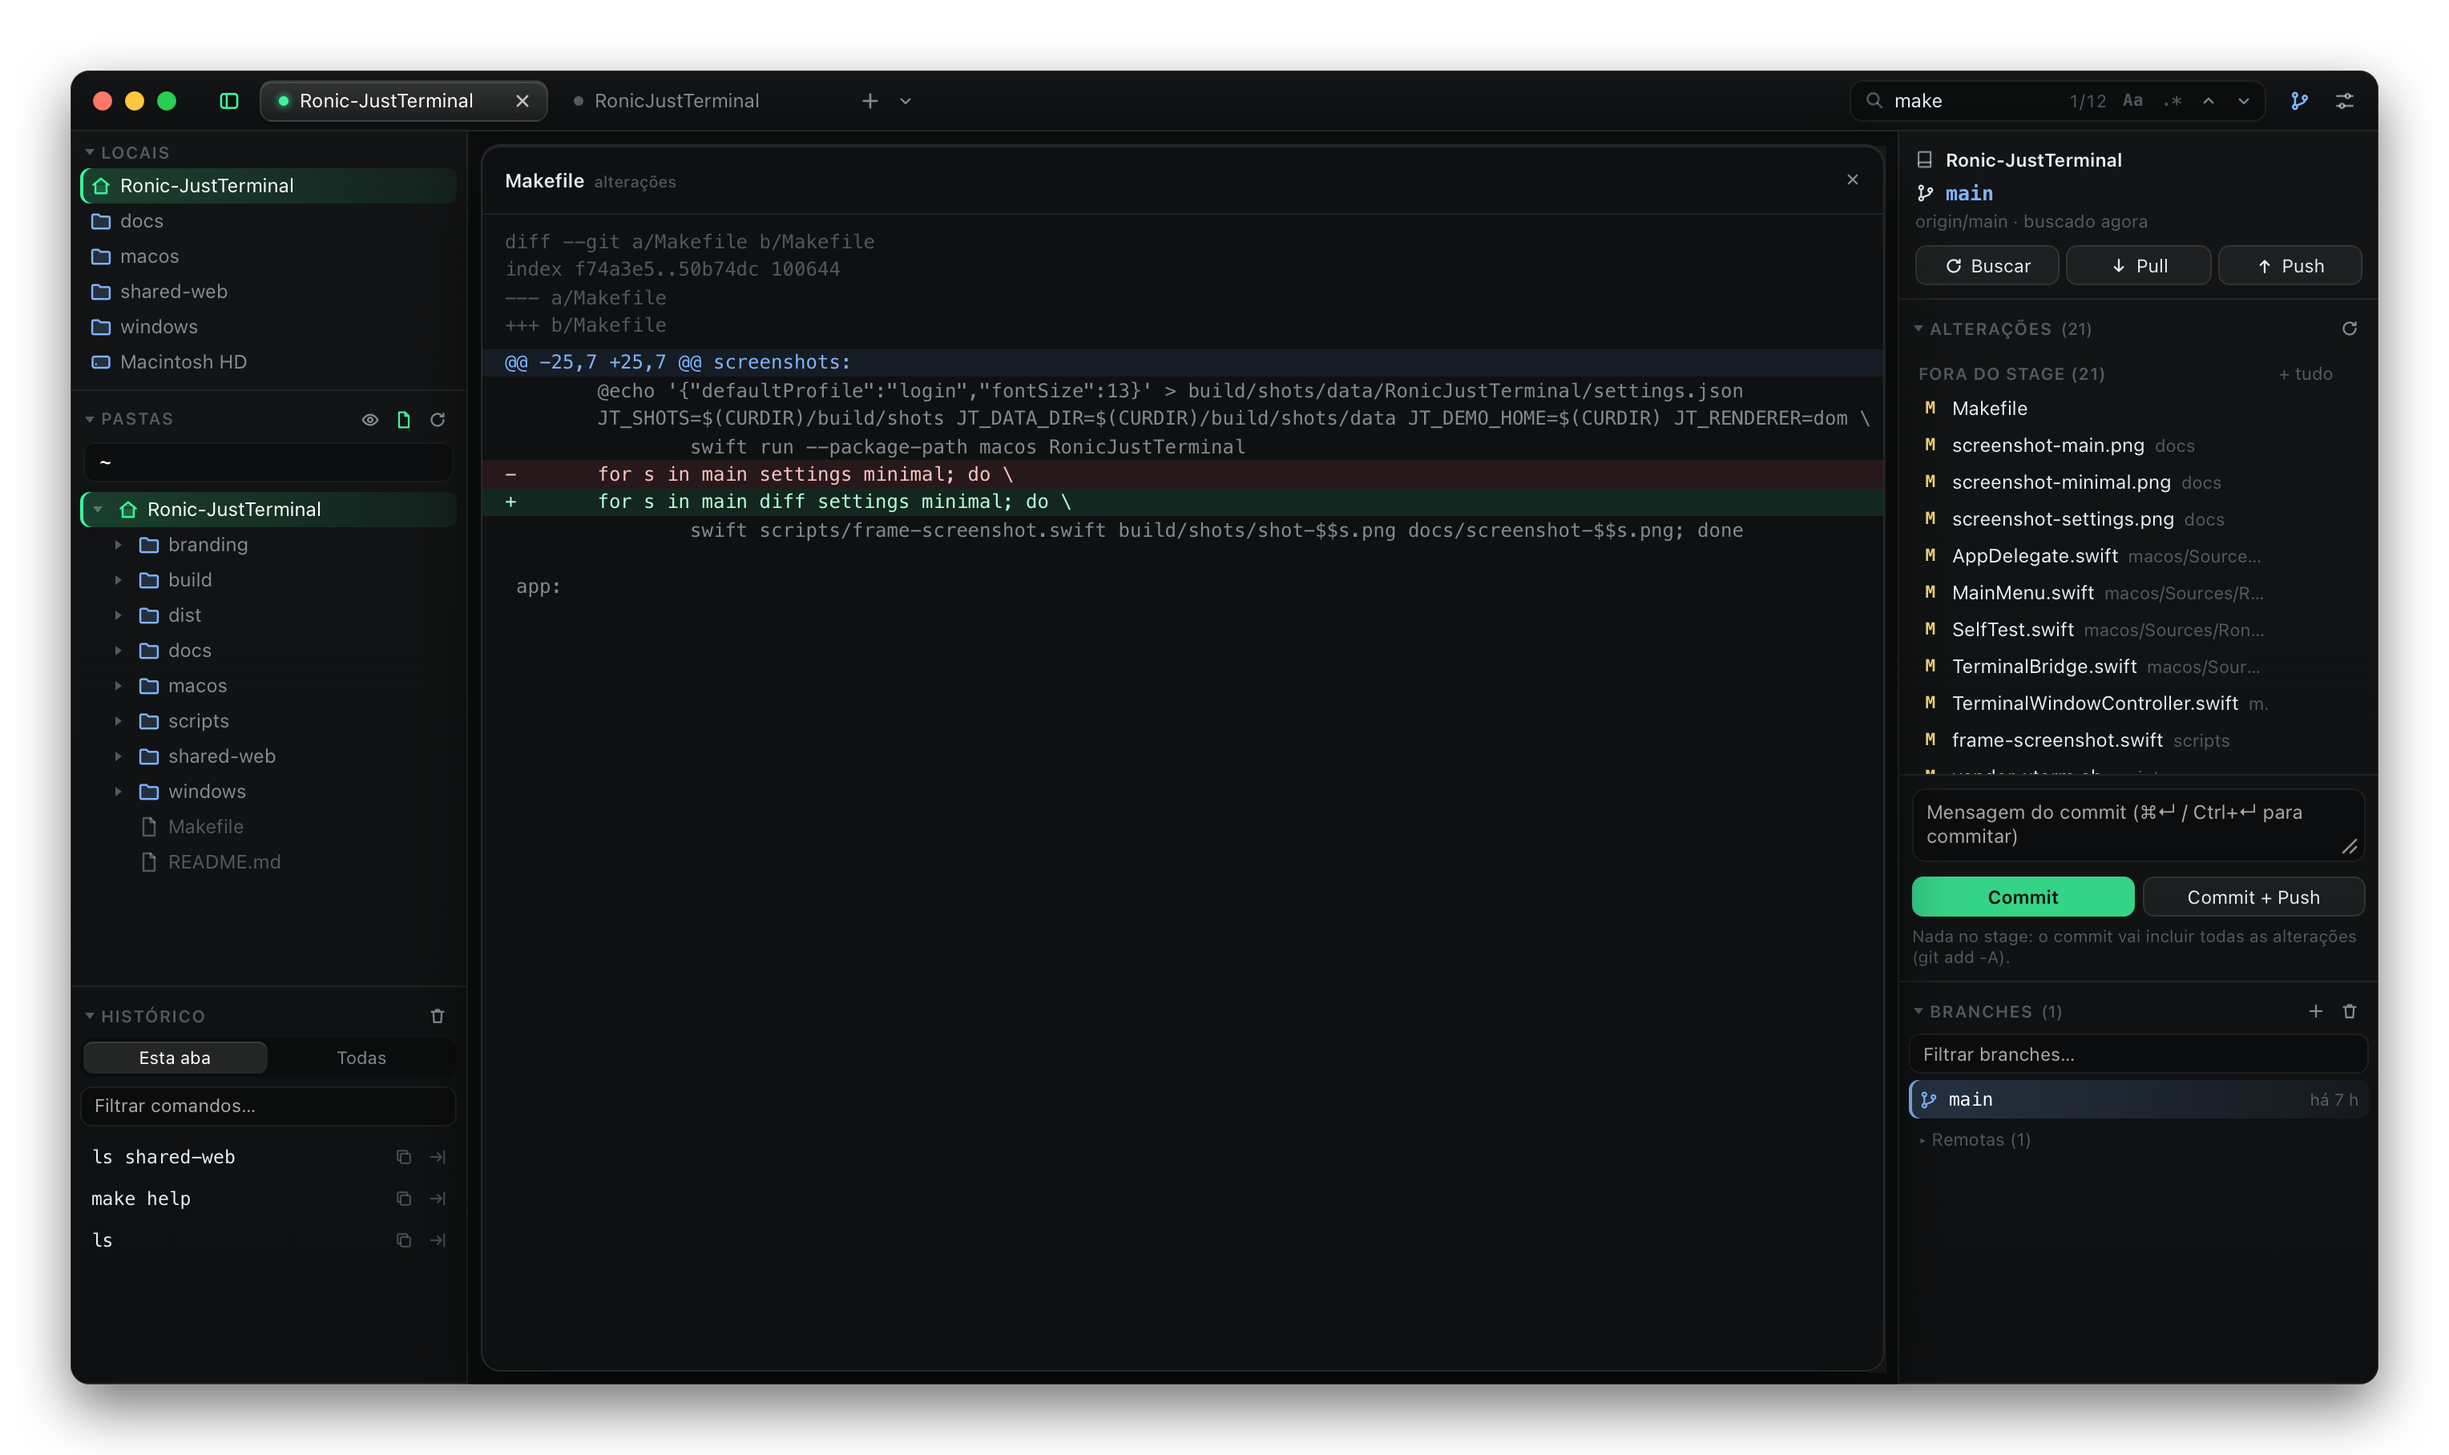
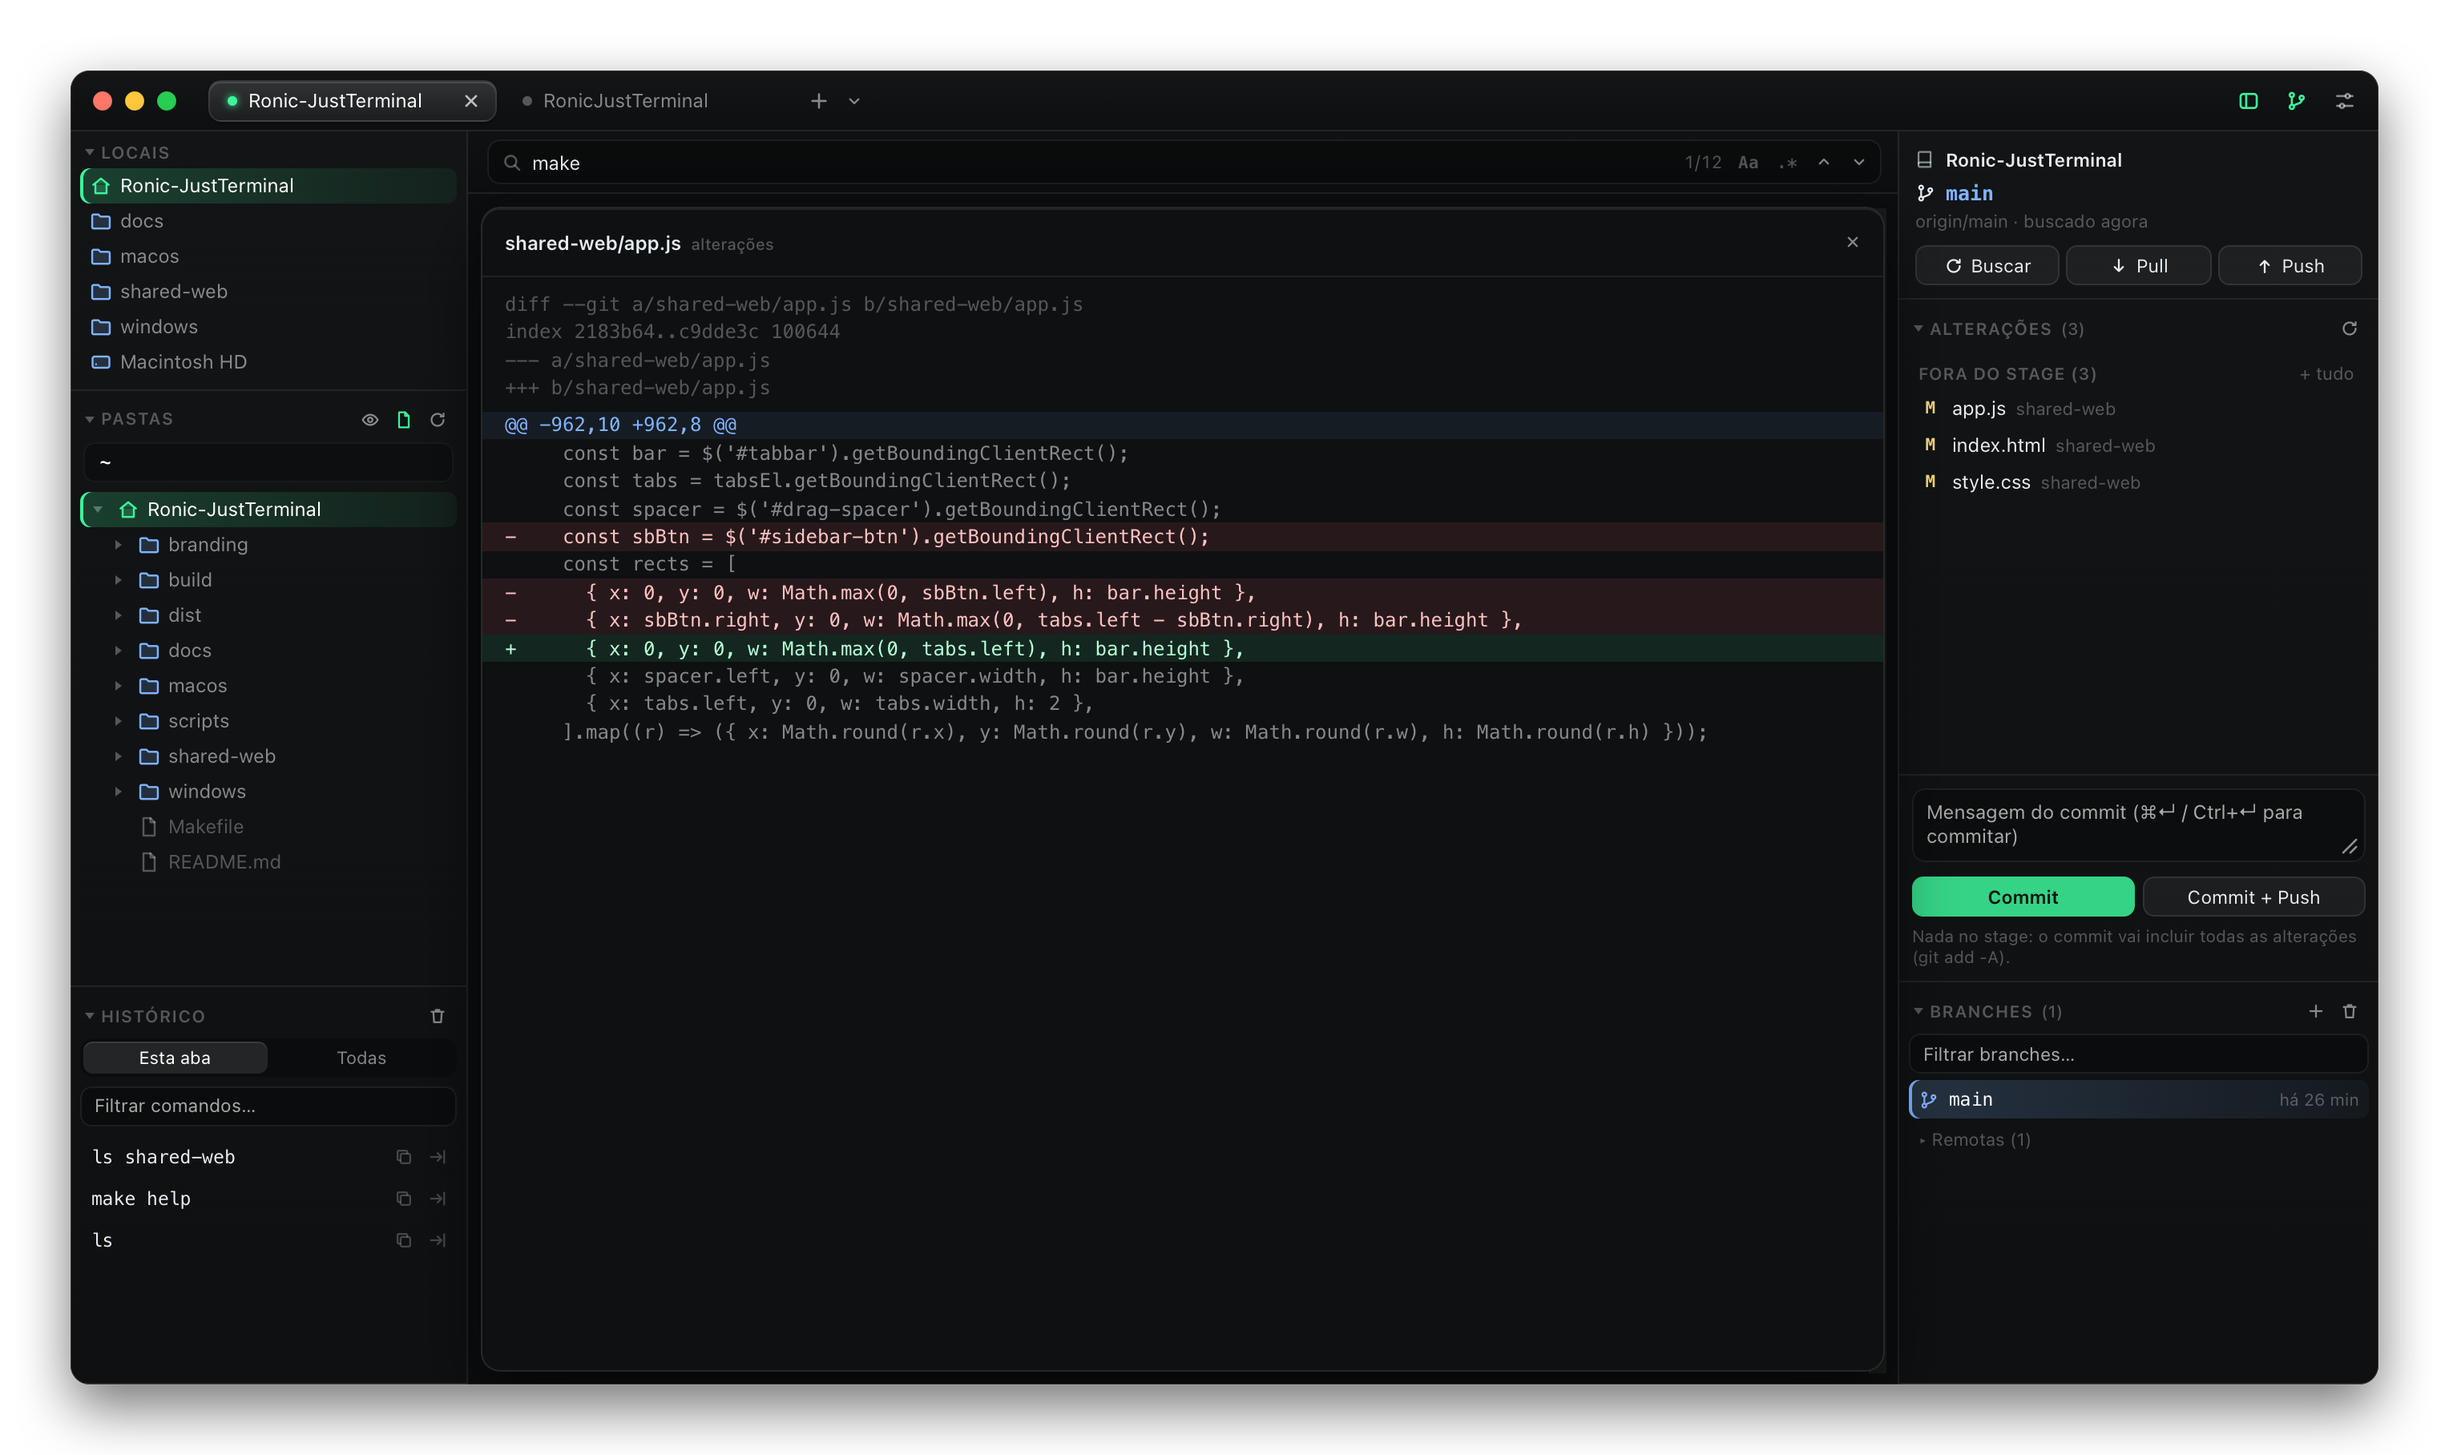
Search row below the tabs, sidebar buttons on the right (0.3.1)
- Terminal search moved out of the tab bar into its own row right below the tabs, above
  the terminal text and as wide as the terminal area.
- The left-sidebar toggle now sits on the right of the tab bar, next to the Git and
  Settings buttons; the Git button is green when active, like the others. The macOS window
  drag area follows the new layout.
- README screenshots and docs updated.

Changed region(s): [[0.0933, 0.0308, 0.9015, 0.5242], [0.6839, 0.0925, 0.7461, 0.1233]]

diff --git a/shared-web/index.html b/shared-web/index.html
@@ -10,9 +10,6 @@
 <body>
   <div id="app">
     <header id="tabbar">
-      <button id="sidebar-btn" class="icon-btn" title="Mostrar/ocultar barra lateral" aria-label="Barra lateral">
-        <svg viewBox="0 0 16 16" aria-hidden="true"><rect x="2.25" y="3" width="11.5" height="10" rx="2"/><path d="M6.25 3v10"/></svg>
-      </button>
       <div id="tabs" role="tablist" aria-label="Abas"></div>
       <div class="tab-actions">
         <button id="new-tab" class="icon-btn" title="Nova aba" aria-label="Nova aba">
@@ -23,19 +20,9 @@
         </button>
       </div>
       <div id="drag-spacer"></div>
-      <div id="term-search" class="search-box" role="search">
-        <svg class="search-icon" viewBox="0 0 16 16" aria-hidden="true"><circle cx="7" cy="7" r="4.25"/><path d="m10.25 10.25 3.25 3.25"/></svg>
-        <input id="search-input" type="search" placeholder="Buscar no terminal" spellcheck="false" autocomplete="off" aria-label="Buscar no terminal">
-        <span id="search-count" class="search-count" aria-live="polite"></span>
-        <button id="search-case" class="search-opt" title="Diferenciar maiúsculas e minúsculas" aria-pressed="false">Aa</button>
-        <button id="search-regex" class="search-opt" title="Expressão regular" aria-pressed="false">.*</button>
-        <button id="search-prev" class="icon-btn tiny" title="Anterior (Shift+Enter)" aria-label="Anterior">
-          <svg viewBox="0 0 16 16" aria-hidden="true"><path d="M4.5 9.5 8 6l3.5 3.5"/></svg>
-        </button>
-        <button id="search-next" class="icon-btn tiny" title="Próxima (Enter)" aria-label="Próxima">
-          <svg viewBox="0 0 16 16" aria-hidden="true"><path d="M4.5 6.5 8 10l3.5-3.5"/></svg>
-        </button>
-      </div>
+      <button id="sidebar-btn" class="icon-btn" title="Mostrar/ocultar barra lateral" aria-label="Barra lateral">
+        <svg viewBox="0 0 16 16" aria-hidden="true"><rect x="2.25" y="3" width="11.5" height="10" rx="2"/><path d="M6.25 3v10"/></svg>
+      </button>
       <button id="git-btn" class="icon-btn" title="Mostrar/ocultar Git" aria-label="Git">
         <svg viewBox="0 0 16 16" aria-hidden="true"><circle cx="4.5" cy="3.75" r="1.5"/><circle cx="4.5" cy="12.25" r="1.5"/><circle cx="11.5" cy="5.75" r="1.5"/><path d="M4.5 5.25v5.5M11.5 7.25c0 2.5-3 2.5-5.6 4"/></svg>
       </button>
@@ -92,17 +79,34 @@
         </section>
       </aside>
       <div id="sb-resizer" role="separator" aria-orientation="vertical" title="Arraste para redimensionar"></div>
-      <main id="panes">
-        <section id="diff-view" class="glass-panel" hidden aria-label="Diferenças">
-          <header>
-            <span class="diff-title"></span>
-            <button id="diff-close" class="icon-btn small" title="Fechar (Esc)" aria-label="Fechar">
-              <svg viewBox="0 0 16 16" aria-hidden="true"><path d="m4.5 4.5 7 7m0-7-7 7"/></svg>
+      <div id="center">
+        <div id="search-bar">
+          <div id="term-search" class="search-box" role="search">
+            <svg class="search-icon" viewBox="0 0 16 16" aria-hidden="true"><circle cx="7" cy="7" r="4.25"/><path d="m10.25 10.25 3.25 3.25"/></svg>
+            <input id="search-input" type="search" placeholder="Buscar no terminal" spellcheck="false" autocomplete="off" aria-label="Buscar no terminal">
+            <span id="search-count" class="search-count" aria-live="polite"></span>
+            <button id="search-case" class="search-opt" title="Diferenciar maiúsculas e minúsculas" aria-pressed="false">Aa</button>
+            <button id="search-regex" class="search-opt" title="Expressão regular" aria-pressed="false">.*</button>
+            <button id="search-prev" class="icon-btn tiny" title="Anterior (Shift+Enter)" aria-label="Anterior">
+              <svg viewBox="0 0 16 16" aria-hidden="true"><path d="M4.5 9.5 8 6l3.5 3.5"/></svg>
             </button>
-          </header>
-          <pre class="diff-body"></pre>
-        </section>
-      </main>
+            <button id="search-next" class="icon-btn tiny" title="Próxima (Enter)" aria-label="Próxima">
+              <svg viewBox="0 0 16 16" aria-hidden="true"><path d="M4.5 6.5 8 10l3.5-3.5"/></svg>
+            </button>
+          </div>
+        </div>
+        <main id="panes">
+          <section id="diff-view" class="glass-panel" hidden aria-label="Diferenças">
+            <header>
+              <span class="diff-title"></span>
+              <button id="diff-close" class="icon-btn small" title="Fechar (Esc)" aria-label="Fechar">
+                <svg viewBox="0 0 16 16" aria-hidden="true"><path d="m4.5 4.5 7 7m0-7-7 7"/></svg>
+              </button>
+            </header>
+            <pre class="diff-body"></pre>
+          </section>
+        </main>
+      </div>
       <div id="git-resizer" role="separator" aria-orientation="vertical" title="Arraste para redimensionar"></div>
       <aside id="gitbar" aria-label="Git">
         <div id="git-head" class="git-head"></div>

diff --git a/shared-web/style.css b/shared-web/style.css
@@ -187,11 +187,21 @@ html.browser body {
 
 #workspace { flex: 1 1 auto; display: flex; min-height: 0; }
 
+/* Center column: search row on top, terminals below. */
+#center { flex: 1 1 auto; min-width: 0; min-height: 0; display: flex; flex-direction: column; }
 #panes { position: relative; flex: 1 1 auto; min-width: 0; min-height: 0; }
+
+#search-bar {
+  flex: 0 0 auto;
+  display: flex;
+  padding: 5px 10px 5px 12px;
+  border-bottom: 1px solid var(--hairline);
+  background: linear-gradient(180deg, rgba(255, 255, 255, 0.02), rgba(255, 255, 255, 0.005));
+}
 
 html.no-sidebar #sidebar, html.no-sidebar #sb-resizer { display: none; }
 #sidebar-btn.on { color: var(--accent); }
-#sidebar-btn { margin-right: 4px; }
+#sidebar-btn, #git-btn { margin-right: 2px; }
 
 /* ---------- Sidebar ---------- */
 
@@ -513,10 +523,9 @@ html:not(.mac) .mac-only { display: none; }
   display: flex;
   align-items: center;
   gap: 2px;
-  flex: 0 1 260px;
-  min-width: 150px;
-  height: 26px;
-  margin-right: 6px;
+  flex: 1 1 auto;
+  min-width: 0;
+  height: 28px;
   padding: 0 3px 0 8px;
   border-radius: 8px;
   background: rgba(0, 0, 0, 0.28);
@@ -571,7 +580,7 @@ html:not(.mac) .mac-only { display: none; }
 .search-opt[aria-pressed="true"] { color: var(--folder); background: rgba(127, 180, 255, 0.16); }
 .search-box:not(:focus-within):not(.has-query) .search-opt,
 .search-box:not(:focus-within):not(.has-query) .icon-btn { display: none; }
-#git-btn.on { color: var(--folder); }
+#git-btn.on { color: var(--accent); }
 
 /* ---------- Right sidebar: Git ---------- */
 

diff --git a/shared-web/app.js b/shared-web/app.js
@@ -962,10 +962,8 @@
     const bar = $('#tabbar').getBoundingClientRect();
     const tabs = tabsEl.getBoundingClientRect();
     const spacer = $('#drag-spacer').getBoundingClientRect();
-    const sbBtn = $('#sidebar-btn').getBoundingClientRect();
     const rects = [
-      { x: 0, y: 0, w: Math.max(0, sbBtn.left), h: bar.height },
-      { x: sbBtn.right, y: 0, w: Math.max(0, tabs.left - sbBtn.right), h: bar.height },
+      { x: 0, y: 0, w: Math.max(0, tabs.left), h: bar.height },
       { x: spacer.left, y: 0, w: spacer.width, h: bar.height },
       { x: tabs.left, y: 0, w: tabs.width, h: 2 },
     ].map((r) => ({ x: Math.round(r.x), y: Math.round(r.y), w: Math.round(r.w), h: Math.round(r.h) }));

diff --git a/README.md b/README.md
@@ -46,10 +46,10 @@
 * **Folder sidebar that follows the terminal.** Run `cd development` and the tree, the path bar and **Places** update right away. It also works the other way around: click a folder and the `cd` is typed for you. Right-click a folder to open a new tab there, copy or insert its path, reveal it in Finder/File Explorer or pin it to Places. Double-click a file to insert its path into the terminal.
 * **Git sidebar (right).** Follows the active tab: inside a repository it shows the current branch, how many commits you are **ahead/behind** the remote (↑↓), the stash count and a warning when a **merge, rebase, cherry-pick or revert** is in progress, with **Continue** and **Abort** buttons. Below, the changed files split into *No stage* and *Fora do stage* (outside the stage): click a file to see its **colored diff**, use **+ / −** to stage or unstage it, or discard it (click twice to confirm). Write the message and press **Commit** or **Commit + Push**; with nothing staged, the commit takes every change (`git add -A`). The **Branches** list shows every local and remote branch with ↑↓ and the last commit date: click to switch (if you have uncommitted changes it offers to stash them first), right-click to merge, rebase, copy the name or delete, **+** to create a branch and the trash icon to delete branches that are already merged. Fetch, Pull and Push buttons sit at the top, and the app fetches from the remote every 5 minutes in the background (can be turned off).
   * Reads run in the background and never ask for anything. Everything that changes the repository in a way you should see (commit, push, pull, switch, merge, rebase) is **typed into the terminal**, so you see the exact command and its output, and Git can ask for credentials, open your editor or run hooks there. If a program is running in the active tab (say, `dotnet run`), the command runs in a new tab in the same folder.
-* **Search in the terminal.** A dedicated field in the tab bar (not Ctrl+F/⌘F, which belong to the shell) highlights every match in the active tab, shows `current/total` and moves with Enter / Shift+Enter or the arrows, with case-sensitive (**Aa**) and regular-expression (**.\***) options. Handy for finding the error in the middle of a long `dotnet run` log; the highlights follow new output.
+* **Search in the terminal.** A dedicated row right below the tabs, above the terminal text (not Ctrl+F/⌘F, which belong to the shell), highlights every match in the active tab, shows `current/total` and moves with Enter / Shift+Enter or the arrows, with case-sensitive (**Aa**) and regular-expression (**.\***) options. Handy for finding the error in the middle of a long `dotnet run` log; the highlights follow new output.
 * **Per-tab command history.** Every command you type shows up in the sidebar under **This tab** (*Esta aba*), with a search box. **All** (*Todas*) merges every tab and keeps the history across launches. Each entry has two buttons: **Copy** and **Insert into terminal**. Insert types the command without running it, so you can review it before pressing Enter.
 * **Full-path prompt.** On macOS, the prompt shows where you are, like Windows does (`/Users/you/development %` instead of `Mac-mini:development you$`). It only replaces the system default prompt; custom prompts (oh-my-zsh, starship, your own `PS1`) are left alone. It never edits your shell files and can be turned off in Settings.
-* **Both sidebars are optional.** Show or hide the left one (folders and history) and the right one (Git) in Settings, with the buttons at both ends of the tab bar, or with the shortcuts below. Drag their inner edge to resize them.
+* **Both sidebars are optional.** Show or hide the left one (folders and history) and the right one (Git) in Settings, with the buttons at the right end of the tab bar, or with the shortcuts below. Drag their inner edge to resize them.
 * **Glass with adjustable opacity.** The window starts fully dark (100% opacity). Lower the opacity in Settings to let the glass show through: Liquid Glass on macOS 26, Acrylic on Windows 11. Your choice is saved and restored on the next launch.
 * **Keeps running in the background.** Closing the window does **not** end your shells. On macOS, the **R_** icon in the menu bar reopens the window, opens a new tab with any shell, or quits for good. On Windows, the same actions live in the system tray icon.
 * **Fast.** The xterm.js renderer uses WebGL, PTY reads run on their own thread, and flow control keeps `cat huge-file` from freezing the window. The UI is plain HTML, CSS and JavaScript, with no framework.

diff --git a/docs/BRIDGE.md b/docs/BRIDGE.md
@@ -84,7 +84,7 @@ Stage, unstage, discard and "mark resolved" also run in the background. Commit, 
 
 ## Terminal search
 
-The search field in the tab bar uses xterm.js's search addon (`addon-search`) on the active tab: decorations highlight every match (up to 2000), the active one in green, and `onDidChangeResults` feeds the `current/total` counter. Highlights are refreshed as new output arrives, and switching tabs moves the search to the new active tab.
+The search row above the terminal (right below the tabs) uses xterm.js's search addon (`addon-search`) on the active tab: decorations highlight every match (up to 2000), the active one in green, and `onDidChangeResults` feeds the `current/total` counter. Highlights are refreshed as new output arrives, and switching tabs moves the search to the new active tab.
 
 ## Command history
 
